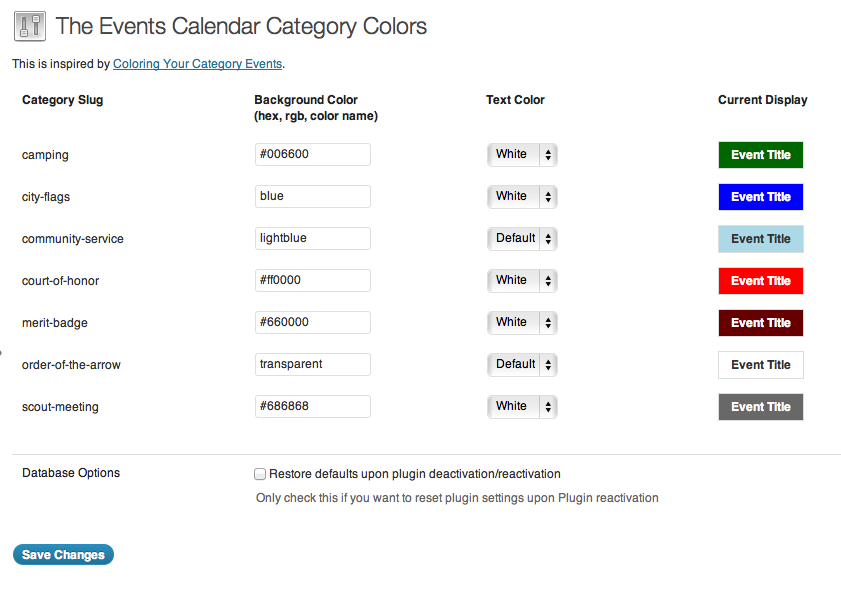
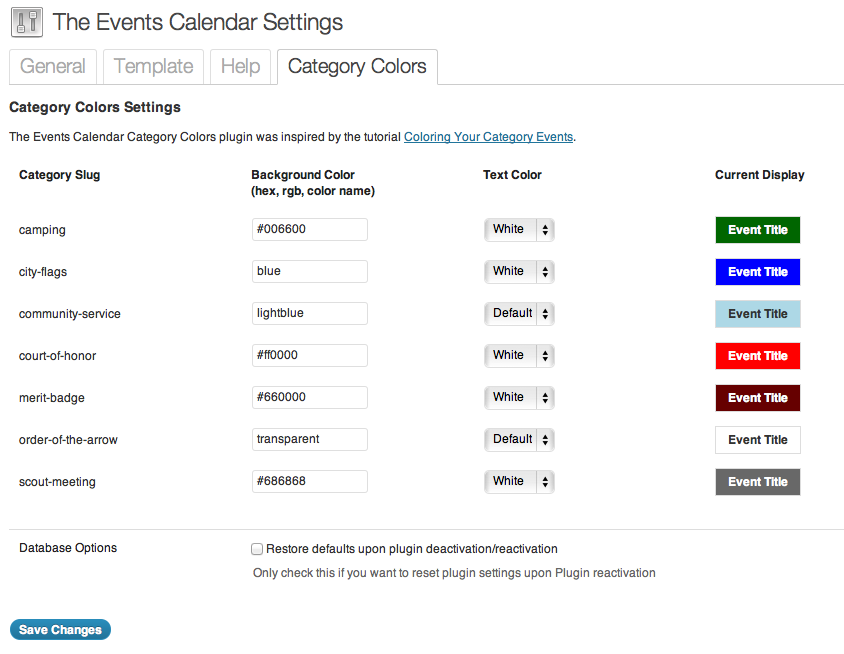
Bug involving Settings tab squished

diff --git a/the-events-calendar-category-colors.php b/the-events-calendar-category-colors.php
@@ -3,7 +3,7 @@
 Plugin Name: The Events Calendar Category Colors
 Plugin URI: http://wordpress.org/extend/plugins/the-events-calendar-category-colors/
 Description: This plugin adds background coloring to The Events Calendar plugin.
-Version: 0.6.1
+Version: 0.7
 Text Domain: events-calendar-category-colors
 Author: Andy Fragen
 Author URI: http://thefragens.com/blog/
@@ -88,7 +88,7 @@ function writeCategoryCSS() {
 register_activation_hook(__FILE__, 'teccc_add_defaults');
 register_uninstall_hook(__FILE__, 'teccc_delete_plugin_options');
 add_action('admin_init', 'teccc_init' );
-add_action('admin_menu', 'teccc_add_options_page');
+//add_action('admin_menu', 'teccc_add_options_page');
 //add_filter( 'plugin_action_links', 'teccc_plugin_action_links', 10, 2 );
 
 // --------------------------------------------------------------------------------------
@@ -261,9 +261,9 @@ add_action('tribe_settings_do_tabs', 'tribe_add_category_colors_tab');
 function tribe_add_category_colors_tab () {
 	include_once('category-colors-settings.php');
 	//add_filter('tribe_settings_form_element', 'teccc_form_header');
-	add_action('tribe_settings_before_content_tab_category-colors', 'teccc_form_header');
+	add_action('tribe_settings_above_form_element_tab_category-colors', 'teccc_form_header');
 	add_action('tribe_settings_before_content_tab_category-colors', 'teccc_settings_fields');
-	//new TribeSettingsTab( 'category-colors', __('Category Colors', 'tribe-events-calendar'), $categoryColorsTab);
+	new TribeSettingsTab( 'category-colors', __('Category Colors', 'tribe-events-calendar'), $categoryColorsTab);
 }
 function teccc_form_header() {
 	echo '<form method="post" action="options.php">' ;

diff --git a/category-colors-settings.php b/category-colors-settings.php
@@ -19,10 +19,6 @@
 		'save-button' => array(
 			'type' => 'html',
 			'html' => '<p class="submit"><input type="submit" class="button-primary" value="' . __('Save Changes') . '" /></p>'
-			),
-		'form-end' =>array(
-			'type' => 'html',
-			'html' => '</form>'
 			)
 		)
 	);
